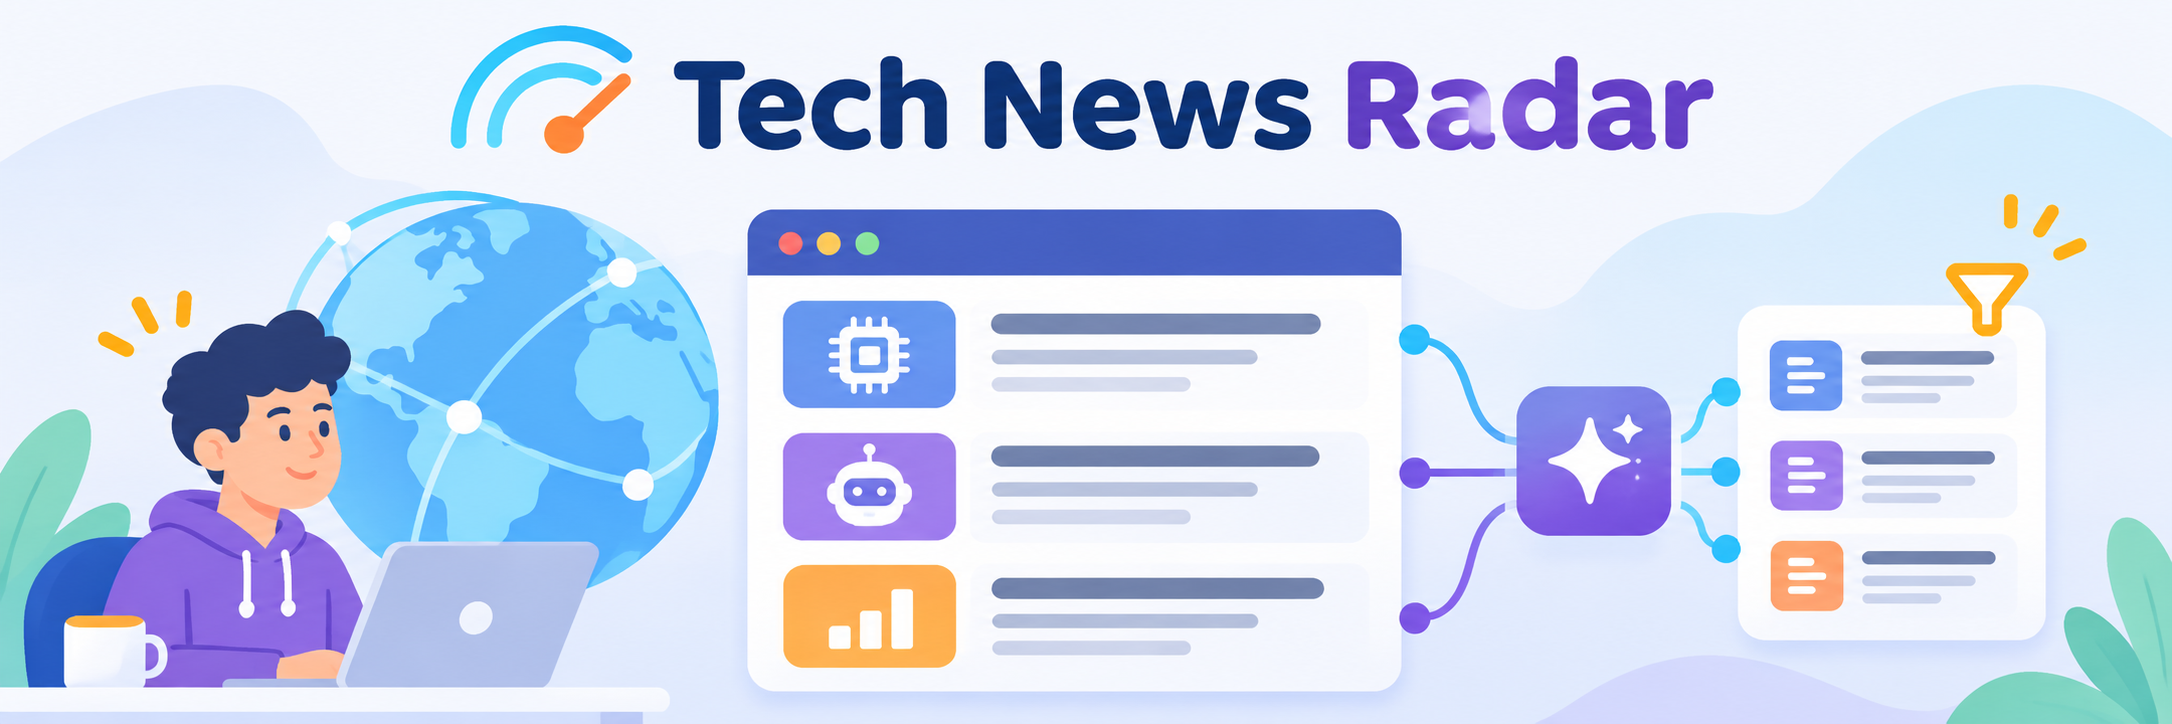
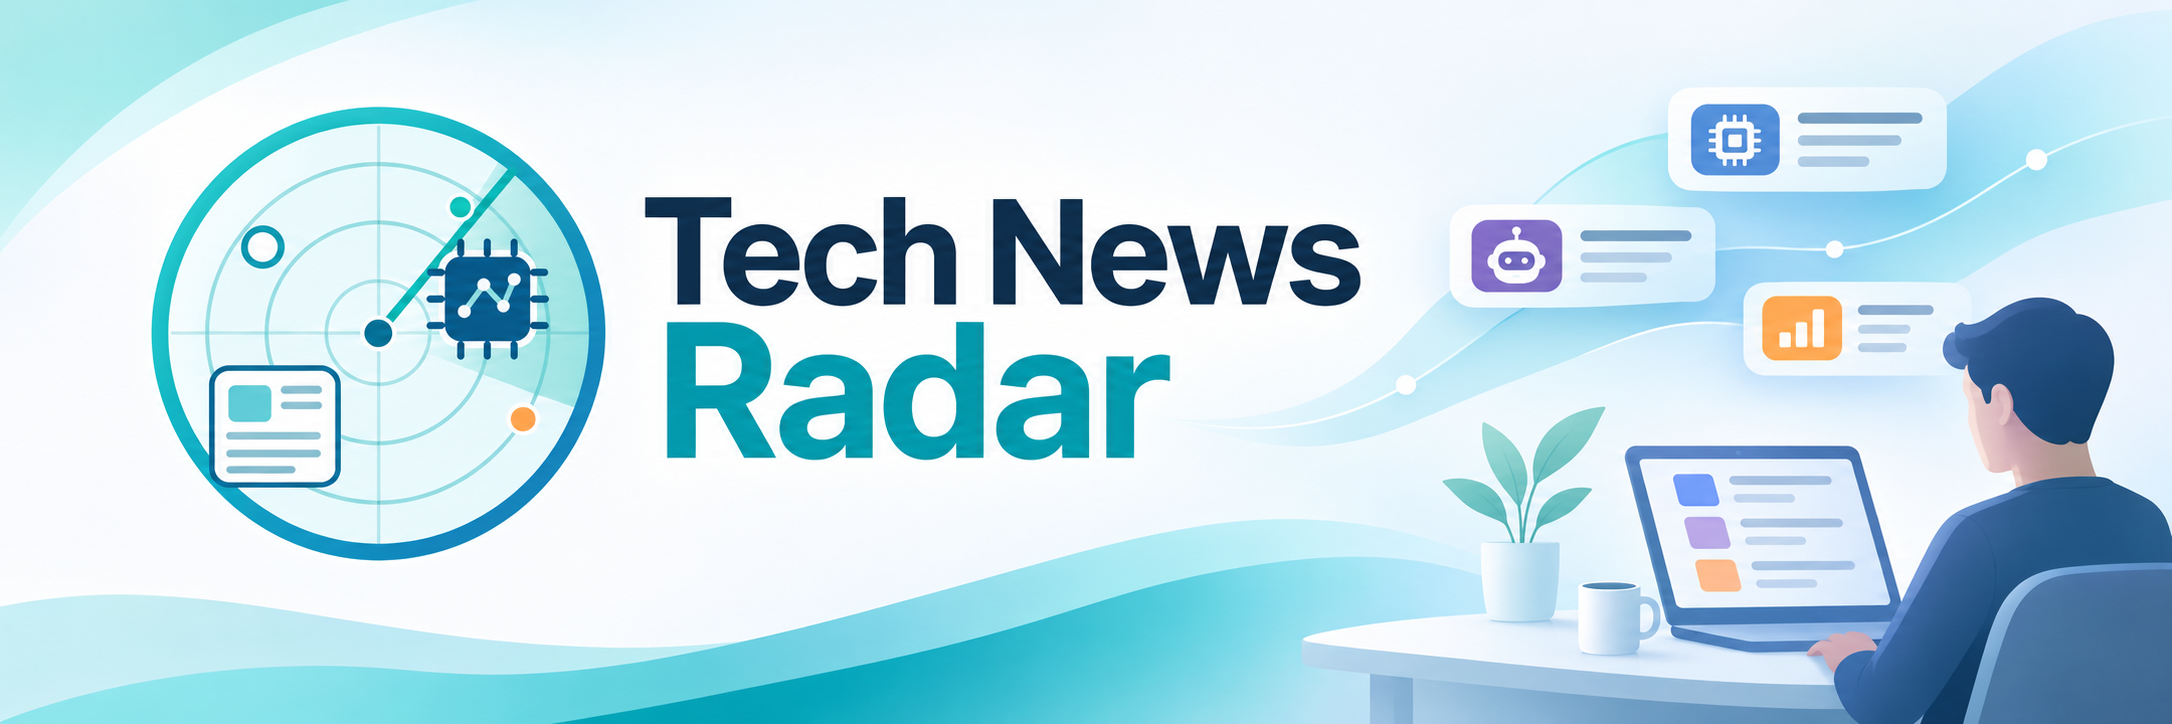
feat: ✨ - refresh branding and welcome layout for v0.2.3
- Update logo and README banner with light and dark theme support
- Enlarge desktop animation, align menu and use editorial symbols
- Update bilingual release notes

diff --git a/frontend/src/styles.css b/frontend/src/styles.css
@@ -44,7 +44,6 @@
   --dialog-shadow: #202b3726;
   --backdrop: #202b3766;
   --tap-highlight: #2457a71a;
-  --logo-surface: transparent;
   --radius: 8px;
   font-family: 'Source Sans 3', system-ui, sans-serif;
   font-size: 16px;
@@ -86,7 +85,6 @@
   --dialog-shadow: #00000066;
   --backdrop: #080e19b3;
   --tap-highlight: #93bcff26;
-  --logo-surface: #f4f6f8;
 }
 * {
   box-sizing: border-box;
@@ -1115,8 +1113,7 @@ body:has(.access-page) {
 .access-toolbar {
   display: flex;
   justify-content: flex-end;
-  width: min(100%, 1200px);
-  margin: 0 auto;
+  width: 100%;
 }
 .access-content {
   display: grid;
@@ -1138,7 +1135,6 @@ body:has(.access-page) {
 .access-logo {
   width: min(90%, 380px);
   height: auto;
-  background: var(--logo-surface);
   border-radius: var(--radius);
 }
 .signal-field {
@@ -1191,11 +1187,20 @@ body:has(.access-page) {
   transform: translate(-50%, -50%);
   transition: transform 240ms cubic-bezier(0.2, 0.7, 0.2, 1);
 }
-:root[data-theme='dark'] .signal-field .access-logo {
-  padding: 8px;
-}
 .signal-field[data-logo-active='true'] .access-logo {
   transform: translate(-50%, -50%) scale(1.045);
+}
+@media (min-width: 1024px) {
+  .access-content {
+    width: min(100%, 1200px);
+  }
+  .signal-field {
+    width: 100%;
+    height: clamp(330px, 40vh, 420px);
+  }
+  .signal-field .access-logo {
+    width: clamp(340px, 26vw, 480px);
+  }
 }
 @container (max-width: 440px) {
   .signal-field {

diff --git a/frontend/src/SignalField.tsx b/frontend/src/SignalField.tsx
@@ -12,7 +12,7 @@ type Signal = {
   velocityY: number
 }
 
-const symbols = ['{', '}', '/', '+', '·', '[', ']', '%', '<', '>', '=', '∑', '”', '·', '–']
+const symbols = ['“', '”', '«', '»', '…', '↗', '→', '·', '○', '{', '}', '[', ']', '/', '·']
 
 export function SignalField() {
   const { t } = useLanguage()

diff --git a/RELEASES NOTES.md b/RELEASES NOTES.md
@@ -7,12 +7,14 @@
 - **Benvenuto interattivo.** Un campo di simboli circonda il logo, anche durante l’attesa.
 - **Mouse e tocco.** Sposta i simboli con il puntatore o crea un’onda con un tocco. Su desktop il logo si ingrandisce leggermente al passaggio del mouse.
 - **Attesa più chiara.** Il messaggio ricorda che la connessione può richiedere circa un minuto dopo un periodo di inattività.
+- **Grafica rinnovata.** Nuovi logo, banner e simboli editoriali, supporto chiaro/scuro e benvenuto desktop più ampio con menu allineato a destra.
 
 ### English
 
 - **Interactive welcome.** A field of symbols surrounds the logo, including while you wait.
 - **Mouse and touch.** Move the symbols with the pointer or tap to create a wave. On desktop, the logo grows slightly when you hover over it.
 - **Clearer waiting message.** The message explains that connecting may take about a minute after a period of inactivity.
+- **Updated visuals.** New logo, banner and editorial symbols, light/dark support, and a wider desktop welcome with the menu aligned to the right.
 
 ## 0.2.2
 
